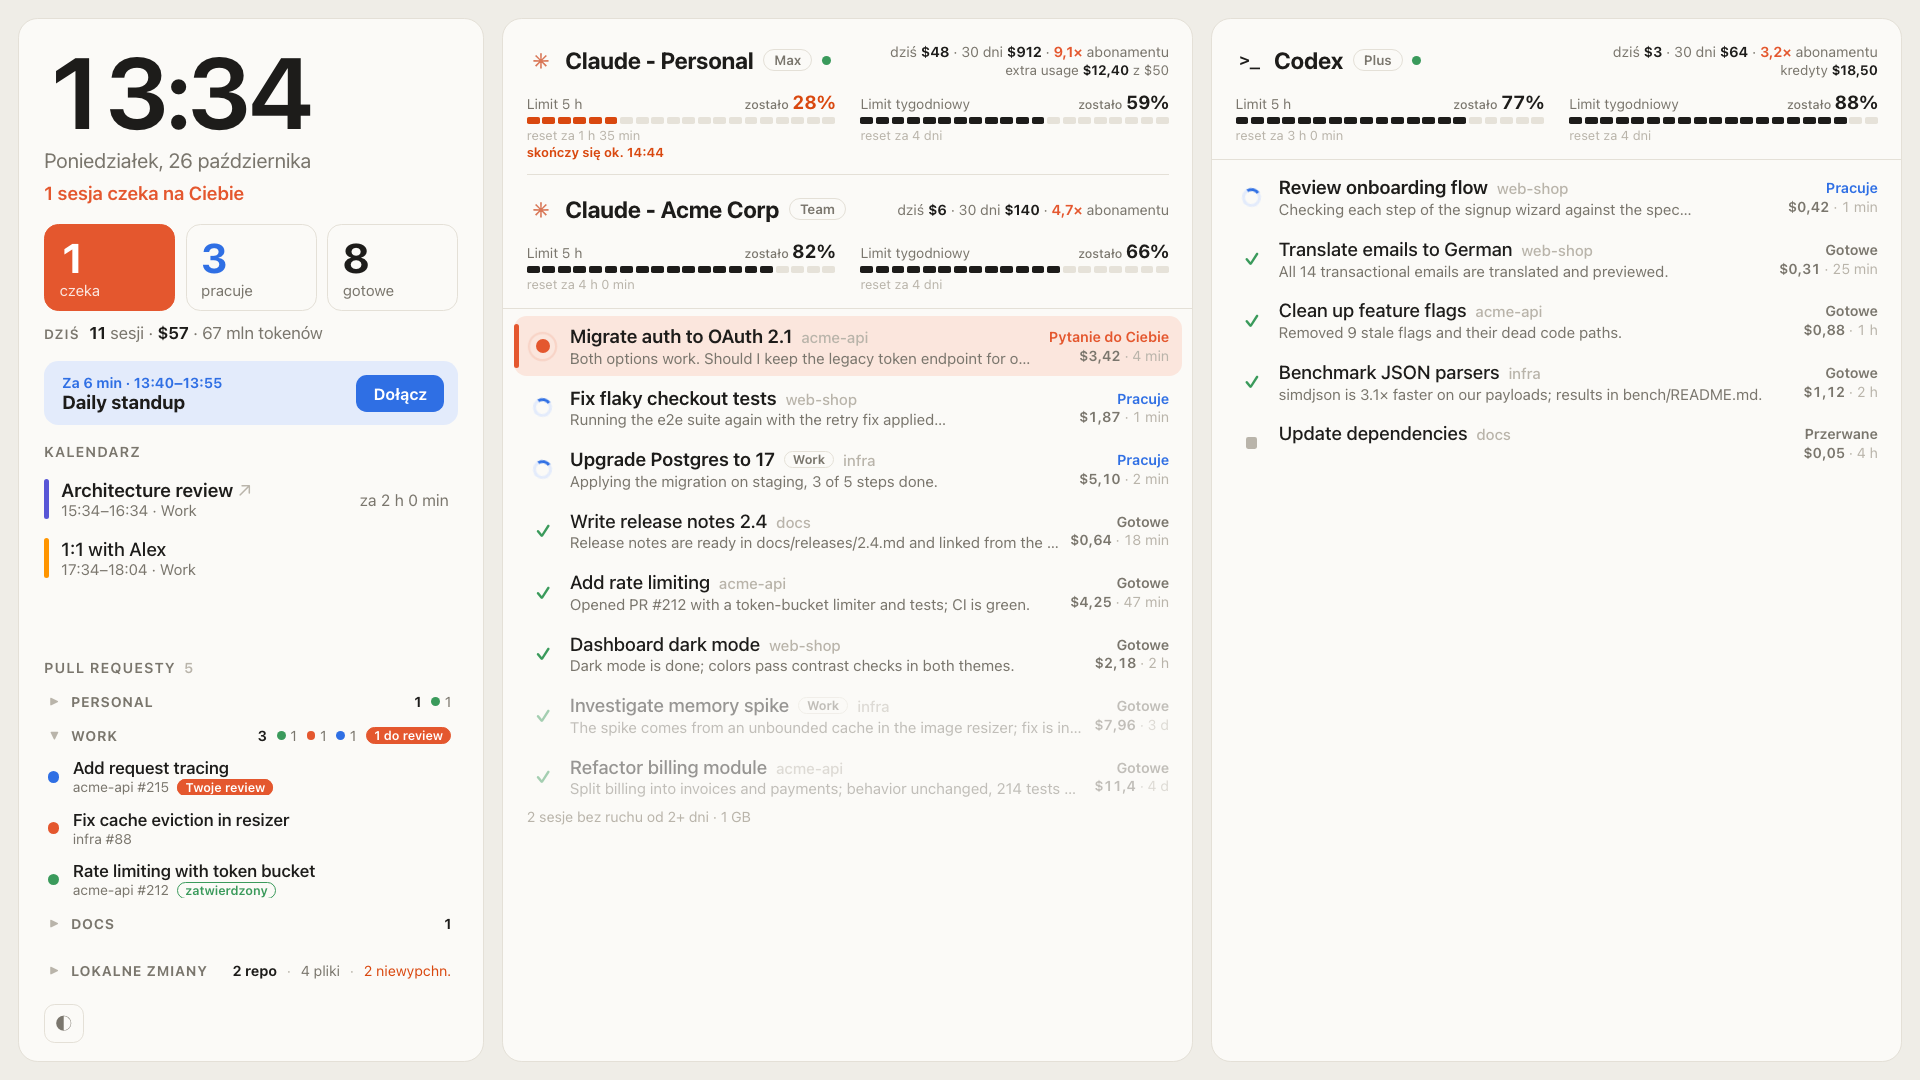
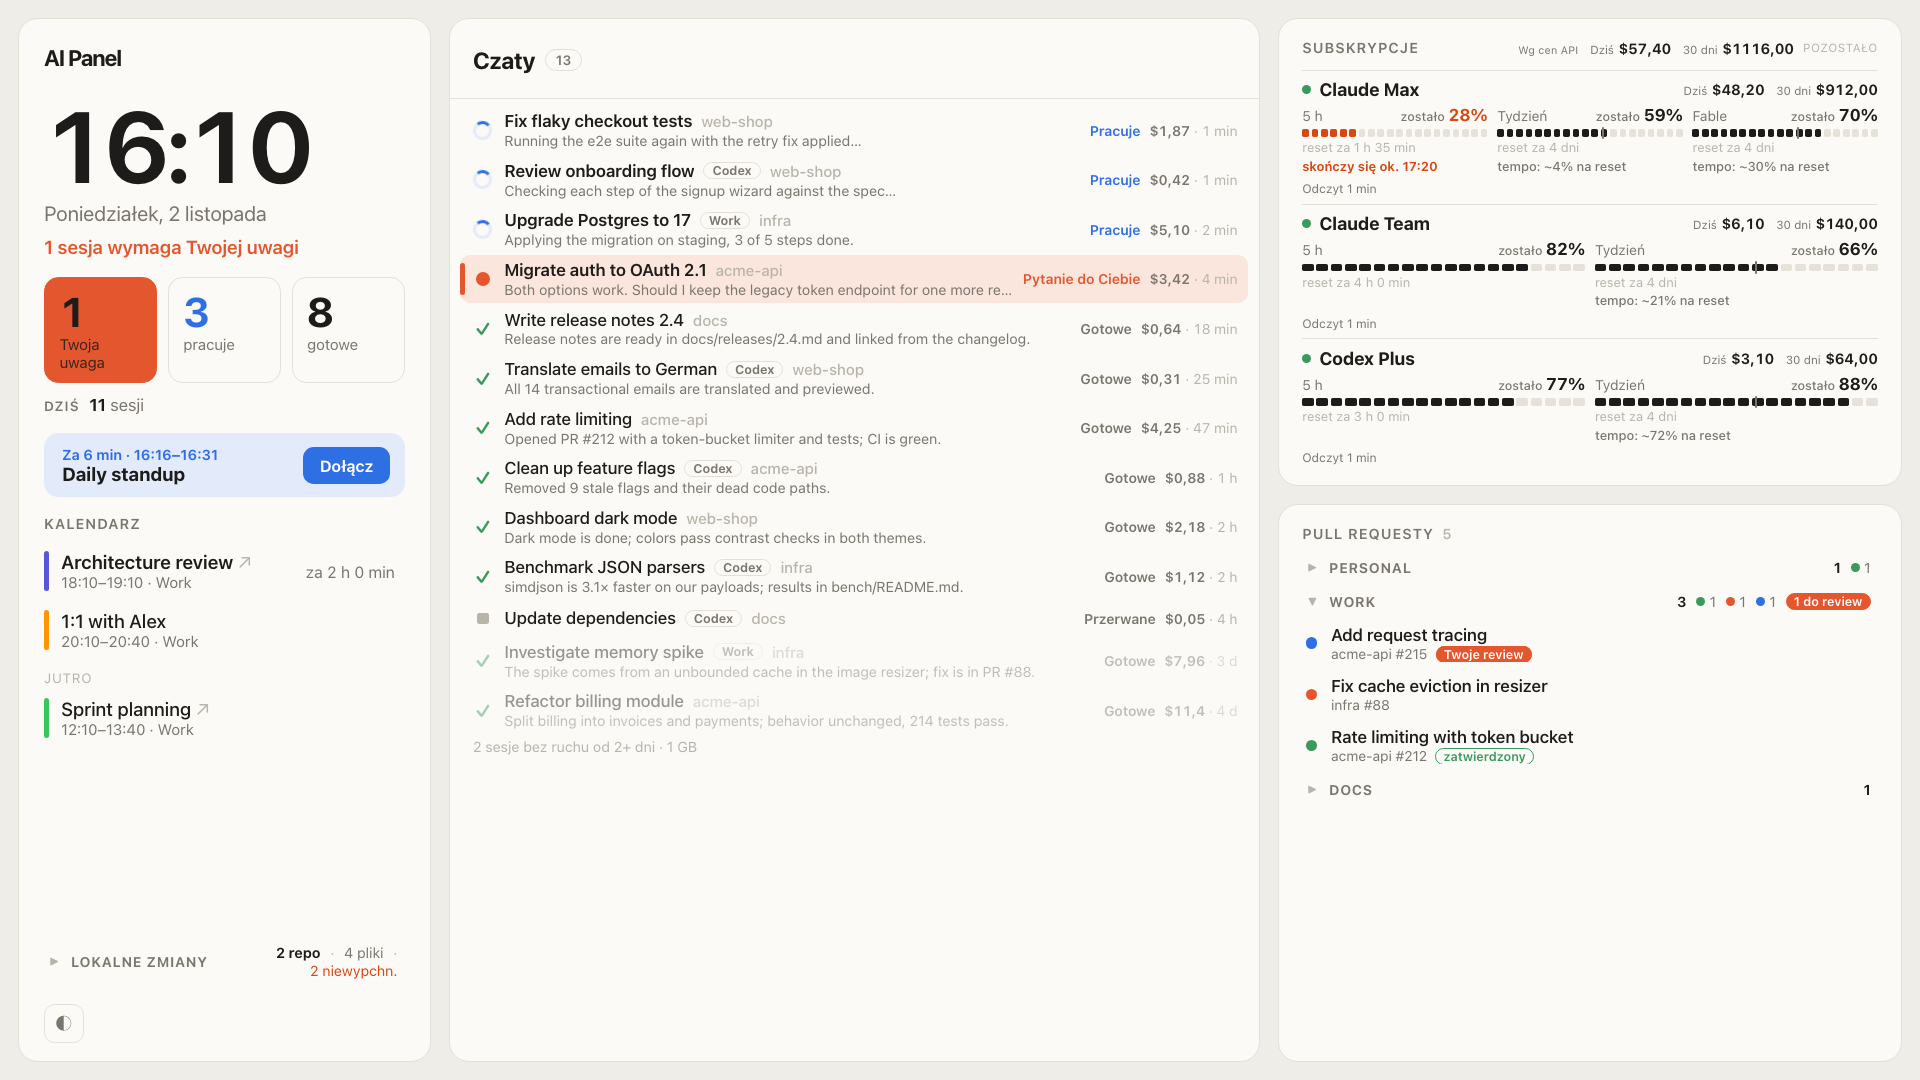
docs: retake README screenshots of the desk layout
Screenshots from the demo data (light English and Polish, dark). The local
changes summary in the narrow side column now wraps instead of running past
the card edge.

diff --git a/static/style.css b/static/style.css
@@ -346,6 +346,8 @@ h2 {
 .col-foot:empty { display: none; }
 
 .local { flex: none; }
+/* The side column is narrow: the summary moves to a second line instead of running past the card edge. */
+.local .pr-group .sum { flex-wrap: wrap; justify-content: flex-end; row-gap: 0.1rem; }
 #local { display: flex; flex-direction: column; gap: 0.1rem; }
 #local:empty { display: none; }
 .pr-group .sum .sep { color: var(--faint); }
